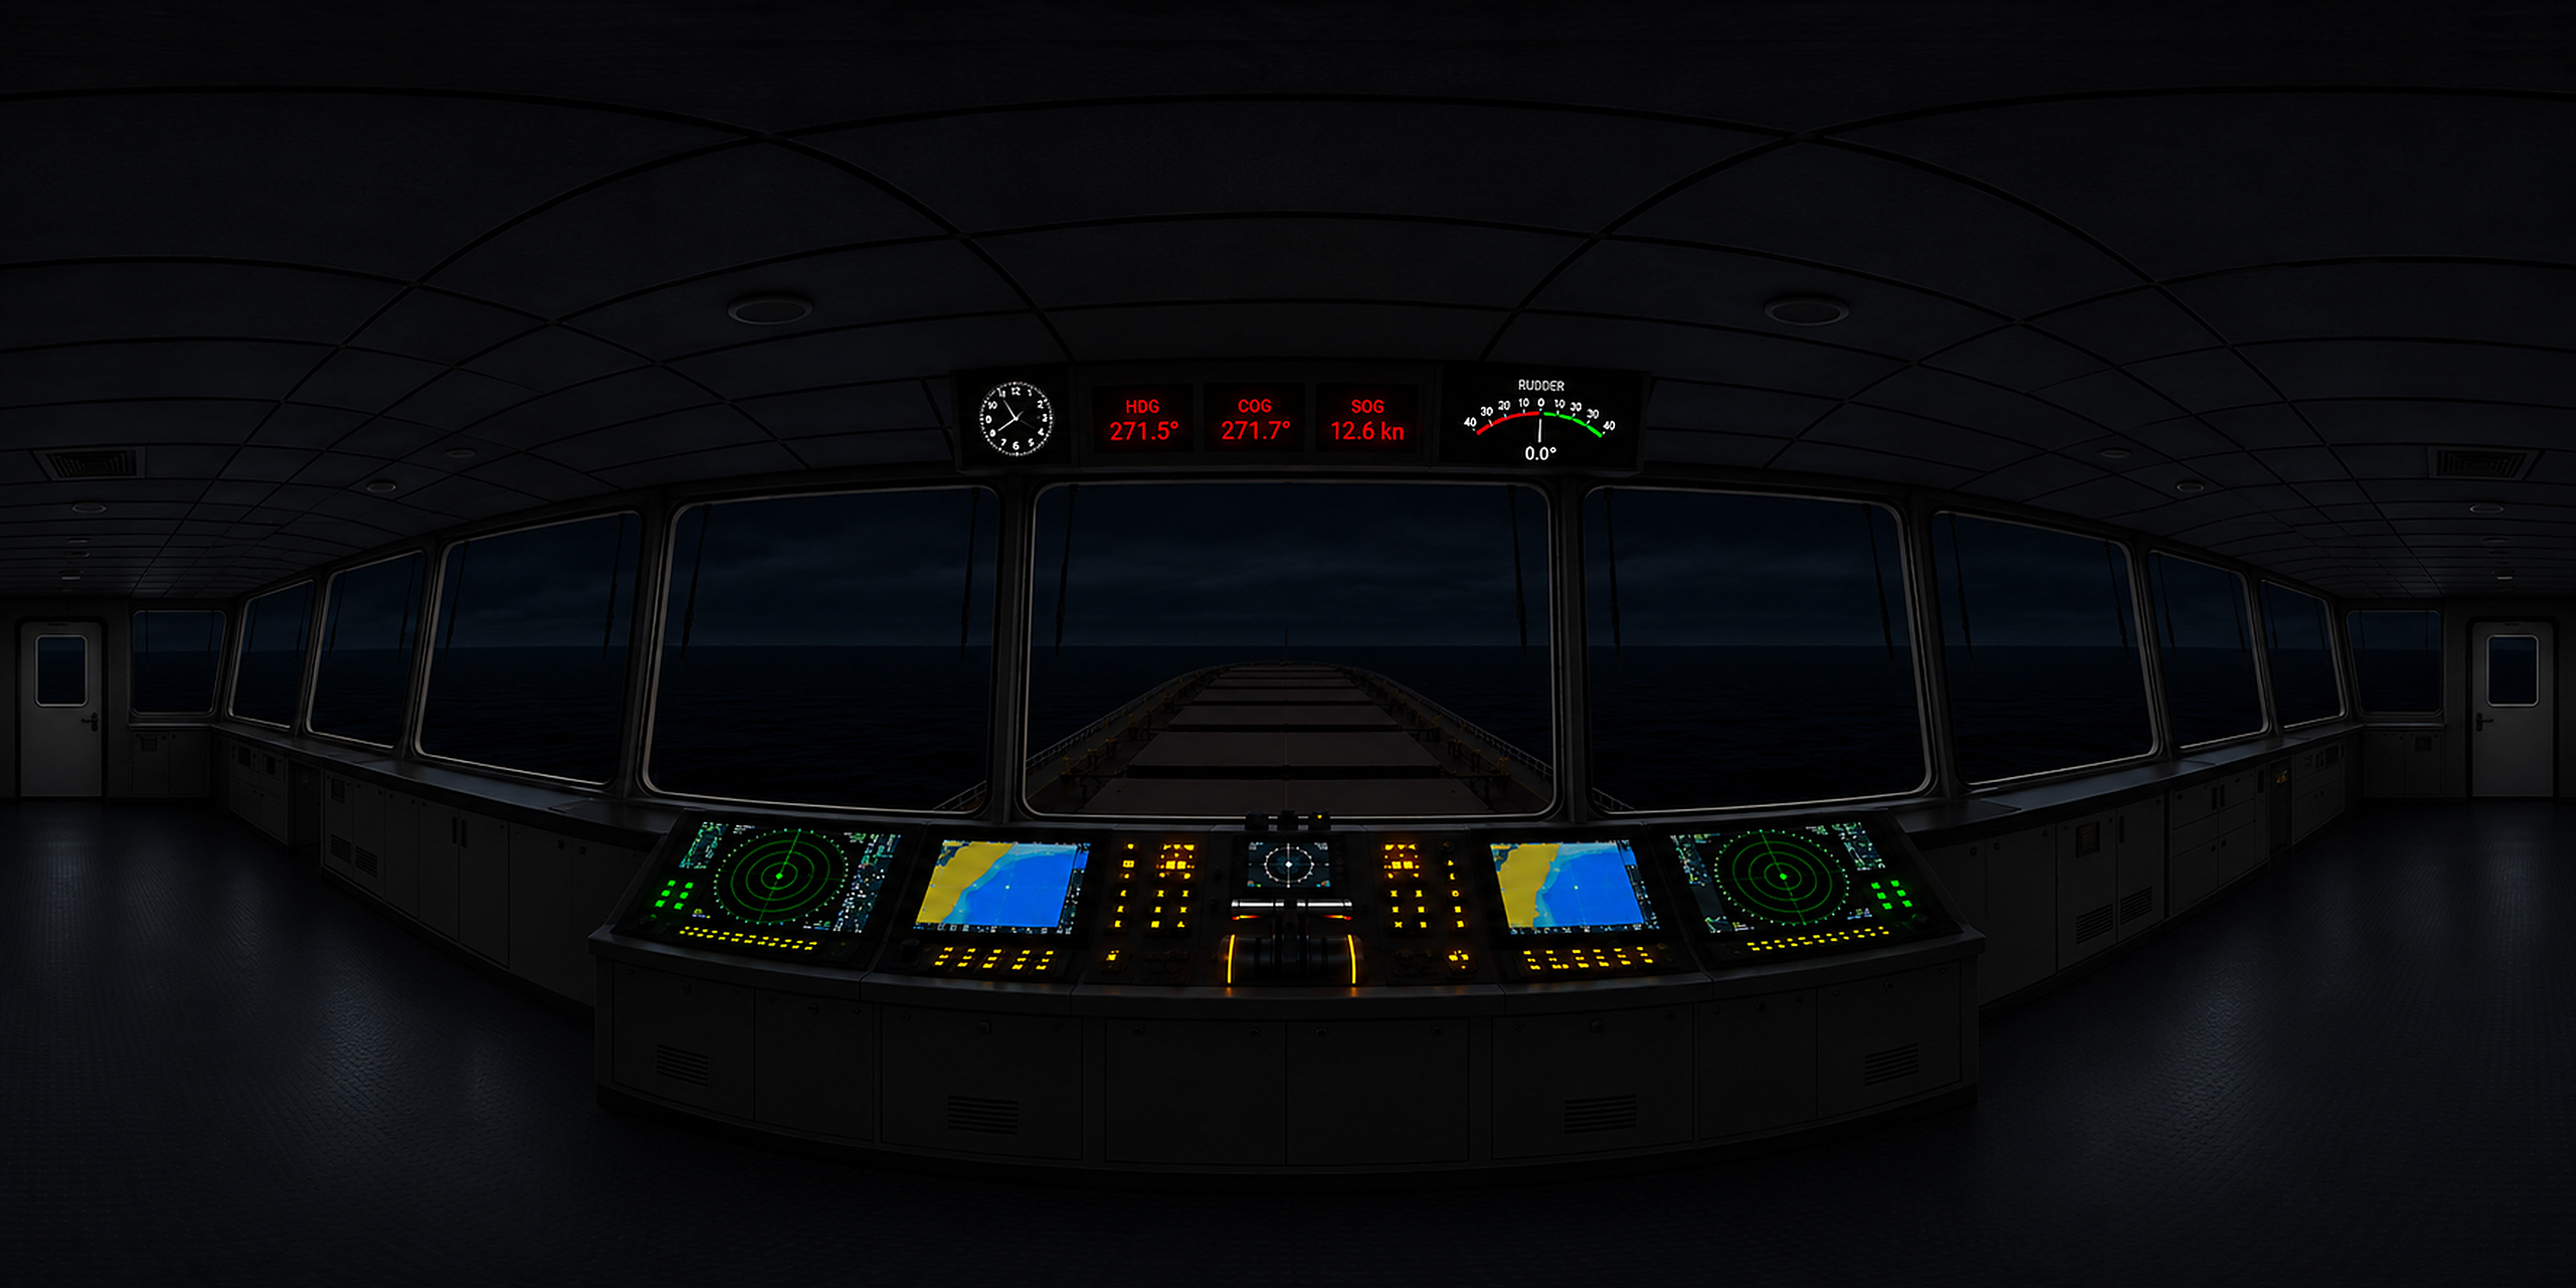
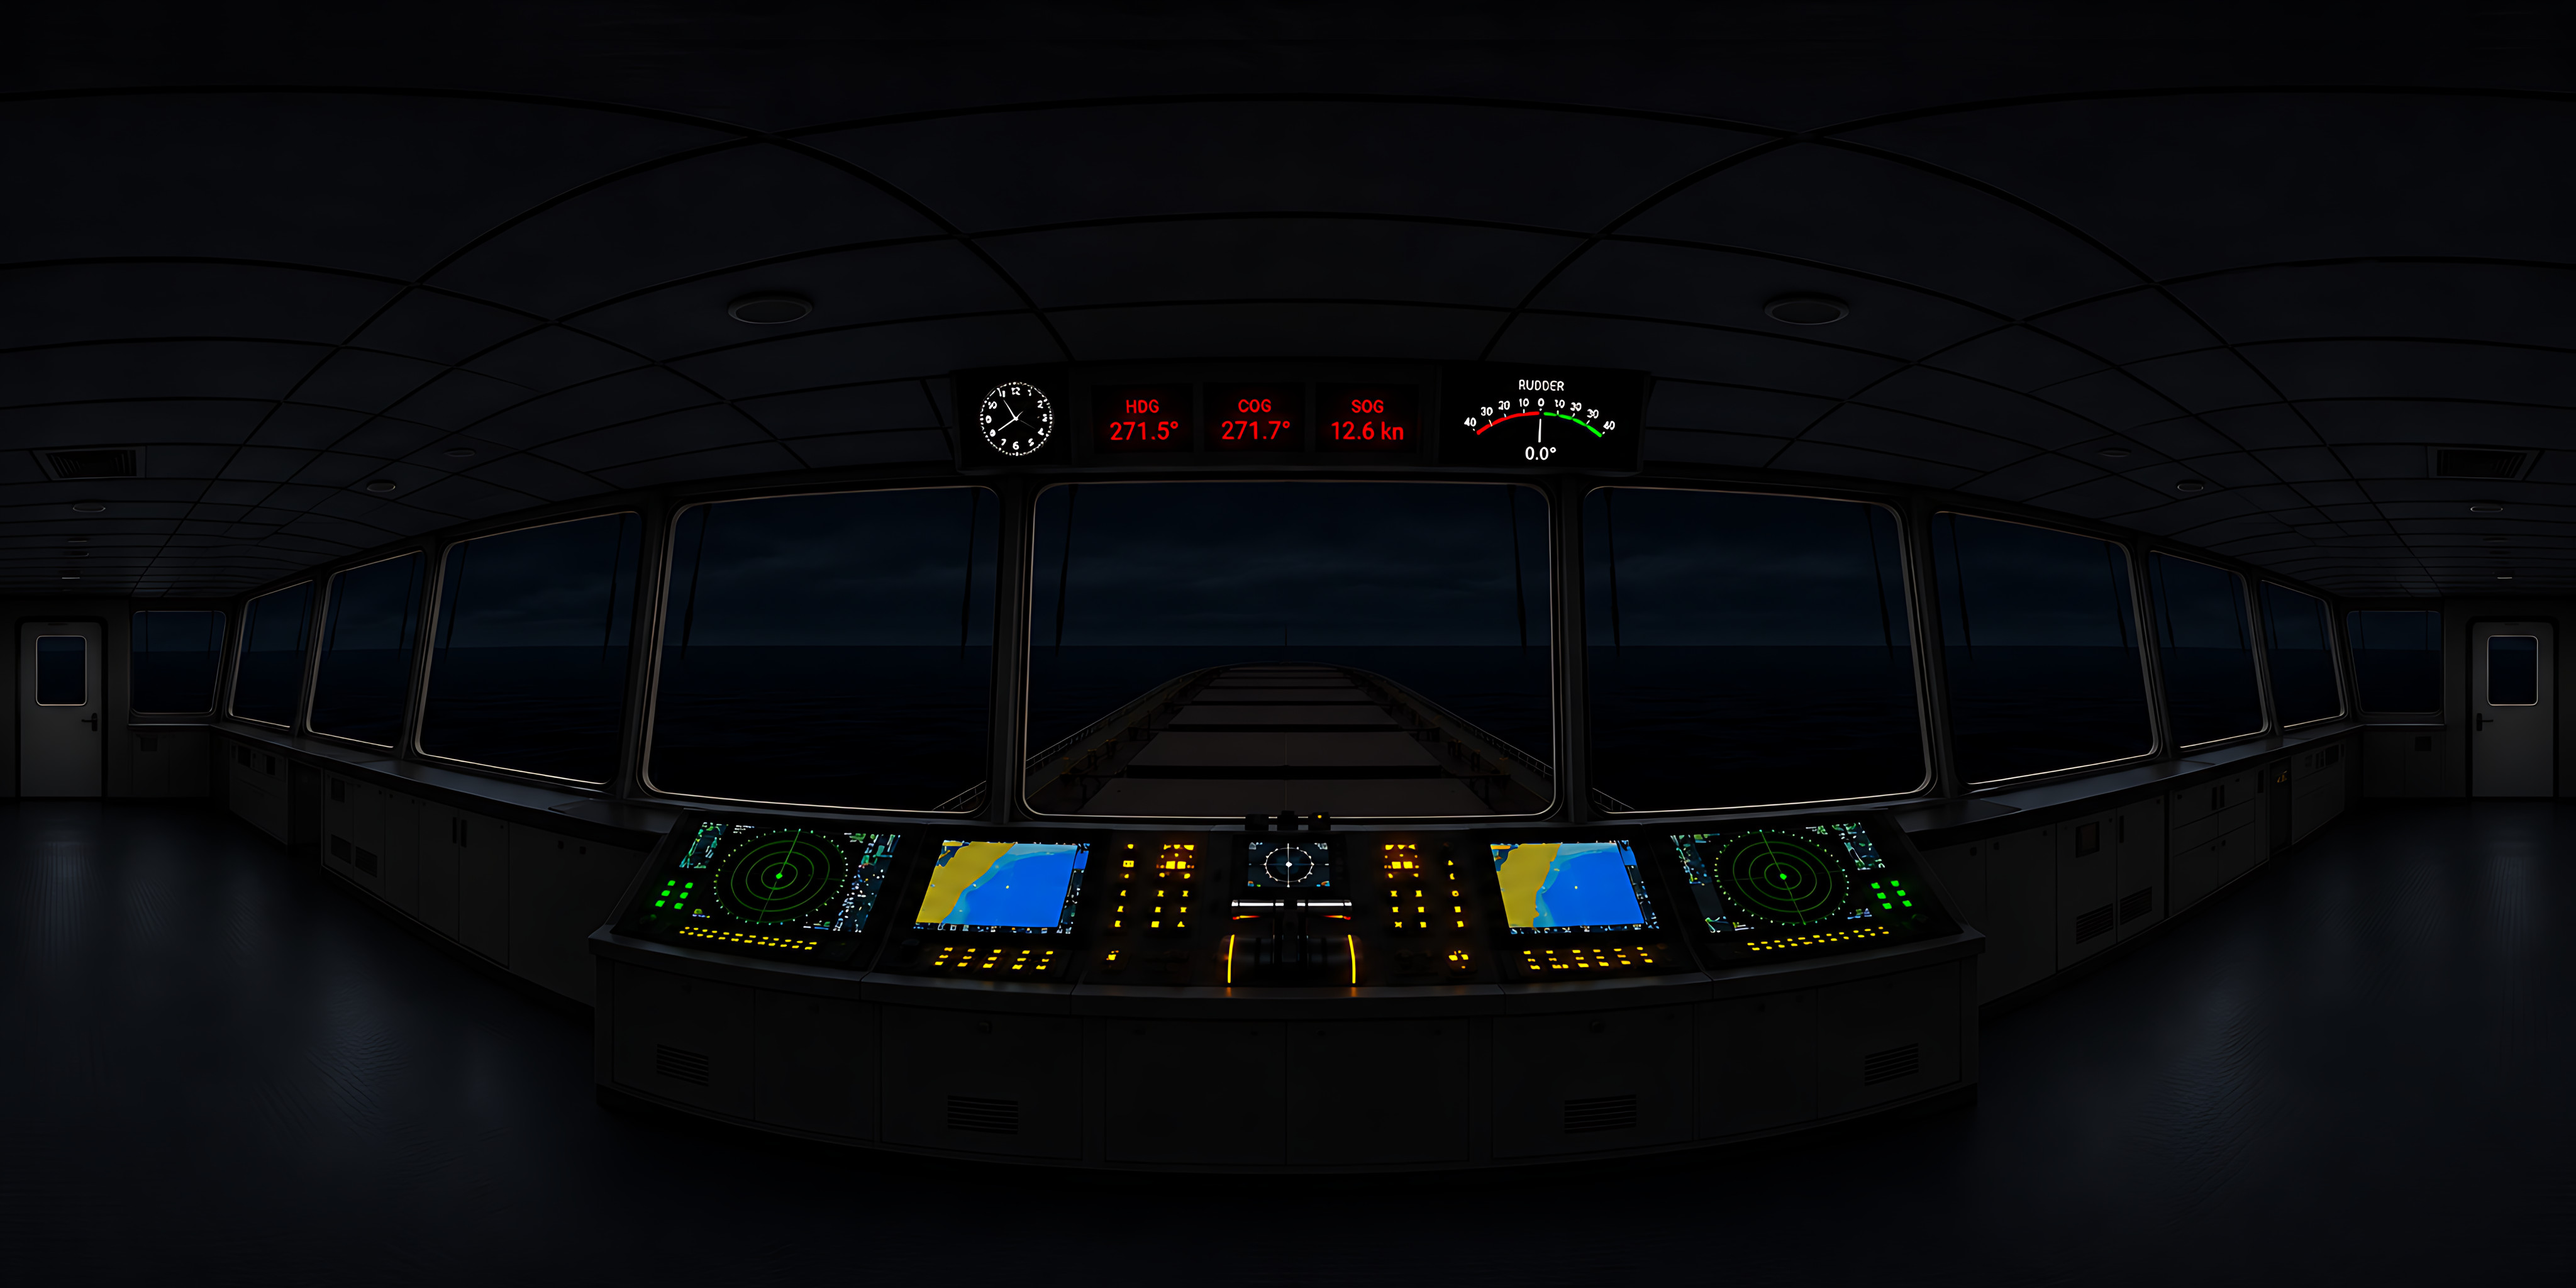
Bridge at Night 360: sharpened 360 picture (4x), larger zoom range, window-glass map for future lights
Claude-Session: https://claude.ai/code/session_01XLtBWFyJp3bPkUeTe5GoMz

diff --git a/bridge360.html b/bridge360.html
@@ -61,7 +61,7 @@ async function allowed() {
 const OWN = { heading: 271.5, cog: 271.7, sog: 12.6, rudder: 0 };
 const EYE = 1.70;                 // eye height above the wheelhouse deck, m
 const BR = { hw: 4.55, zf: -3.2, za: 3.8, h: 2.7 };
-const PHOTO = { src: 'media/bridge360/bridge-pano.jpg', horizonUp: 0 };   // the approved 360° picture of the wheelhouse: one image, dead ahead at its centre, horizon moved onto the level of the eye
+const PHOTO = { src: 'media/bridge360/bridge-pano.jpg', src8k: 'media/bridge360/bridge-pano-8k.jpg', glass: 'media/bridge360/bridge-pano-glass.png' };   // the approved 360° picture (sharpened), and a map of its window glass round the horizon
 const SEA_Y = -20.0, DECK_Y = -13.0;               // sea level and main deck, relative to the wheelhouse deck
 const NM = 1852;
 
@@ -81,7 +81,8 @@ function build() {
 
   /* ----- the whole surroundings are the approved 360° picture, on the inside of a sphere centred on the eye.
            The eye only turns, so every direction shows the picture without distortion. ----- */
-  { const pt = new THREE.TextureLoader().load(PHOTO.src, () => { api.photoReady = true; }); pt.colorSpace = THREE.SRGBColorSpace; pt.anisotropy = renderer.capabilities.getMaxAnisotropy(); pt.generateMipmaps = true;
+  { const big = renderer.capabilities.maxTextureSize >= 8192 && Math.max(screen.width, screen.height) >= 1100 && (navigator.deviceMemory || 8) >= 4;   // large picture on computers, smaller one on phones
+    const pt = new THREE.TextureLoader().load(big ? PHOTO.src8k : PHOTO.src, () => { api.photoReady = true; api.pano = big ? '8k' : '4k'; }); pt.colorSpace = THREE.SRGBColorSpace; pt.anisotropy = renderer.capabilities.getMaxAnisotropy(); pt.generateMipmaps = true;
     const sph = new THREE.Mesh(new THREE.SphereGeometry(400, 96, 48), new THREE.MeshBasicMaterial({ map: pt, side: THREE.BackSide, toneMapped: false, depthWrite: false, depthTest: false }));
     sph.scale.x = -1; sph.rotation.y = -Math.PI / 2; sph.position.copy(camera.position); sph.renderOrder = -10; scene.add(sph); }
   /* ----- relative bearing scale (optional), 000 to 359, drawn at the level of the eye ----- */
@@ -103,10 +104,13 @@ function build() {
   };
   const COL = { w: 0xfff2cf, r: 0xff2a1c, g: 0x1fe06a, y: 0xffc830 };
   const dotT = tex(64, 64, (g, w, h) => { const gr = g.createRadialGradient(32, 32, 0, 32, 32, 32); gr.addColorStop(0, 'rgba(255,255,255,1)'); gr.addColorStop(.18, 'rgba(255,255,255,.9)'); gr.addColorStop(.5, 'rgba(255,255,255,.16)'); gr.addColorStop(1, 'rgba(255,255,255,0)'); g.clearRect(0, 0, w, h); g.fillStyle = gr; g.fillRect(0, 0, w, h); });
+  const glass = { w: 0, h: 0, d: null };
+  { const im = new Image(); im.onload = () => { const c = document.createElement('canvas'); c.width = im.width; c.height = im.height; const g = c.getContext('2d', { willReadFrequently: true }); g.drawImage(im, 0, 0); glass.w = c.width; glass.h = c.height; glass.d = g.getImageData(0, 0, c.width, c.height).data; api.glassReady = true; }; im.src = PHOTO.glass; }
+  const throughGlass = (relDeg, elevDeg) => { if (!glass.d) return false; const u = (((relDeg + 180) % 360) + 360) % 360 / 360, v = .5 - elevDeg / 180; const x = Math.min(glass.w - 1, Math.floor(u * glass.w)), y = Math.max(0, Math.min(glass.h - 1, Math.floor(v * glass.h))); return glass.d[(y * glass.w + x) * 4] > 127; };
   const vessels = [];
   function addVessel(o) {   // { relBearing, rangeNm, heading (true), speedKn, type }
     const v = Object.assign({ relBearing: 0, rangeNm: 4, heading: 90, speedKn: 0, type: 'pdv50' }, o); const b = v.relBearing * Math.PI / 180, r = v.rangeNm * NM;
-    v.x = Math.sin(b) * r; v.z = -Math.cos(b) * r; v.sprites = (LIGHTS[v.type] || LIGHTS.pdv50).map(l => { const s = new THREE.Sprite(new THREE.SpriteMaterial({ map: dotT, color: COL[l[2]], transparent: true, depthWrite: false, toneMapped: false, blending: THREE.AdditiveBlending })); s.userData = l; scene.add(s); return s; });
+    v.x = Math.sin(b) * r; v.z = -Math.cos(b) * r; v.sprites = (LIGHTS[v.type] || LIGHTS.pdv50).map(l => { const s = new THREE.Sprite(new THREE.SpriteMaterial({ map: dotT, color: COL[l[2]], transparent: true, depthWrite: false, toneMapped: false, blending: THREE.AdditiveBlending })); s.userData = { l }; scene.add(s); return s; });
     vessels.push(v); return v;
   }
   function clearVessels() { vessels.forEach(v => v.sprites.forEach(s => { scene.remove(s); s.material.dispose(); })); vessels.length = 0; }
@@ -115,13 +119,13 @@ function build() {
       const rel = (v.heading - OWN.heading) * Math.PI / 180, own = OWN.sog * NM / 3600 * api.timeScale, sp = v.speedKn * NM / 3600 * api.timeScale;
       v.x += Math.sin(rel) * sp * dt; v.z += -Math.cos(rel) * sp * dt + own * dt;                     // motion relative to own ship, which steams along -Z
       const fx = Math.sin(rel), fz = -Math.cos(rel);
-      for (const s of v.sprites) { const [lx, ly, , sec] = s.userData, px = v.x + fx * lx, pz = v.z + fz * lx, d = Math.hypot(px, pz - camera.position.z);
-        const toObs = Math.atan2(-px, -(pz - camera.position.z) * -1), asp = (((Math.atan2(-px, pz - camera.position.z) - Math.atan2(fx, -fz)) * 180 / Math.PI + 540) % 360) - 180;   // bearing of the observer from her bow, + = her starboard side
+      for (const s of v.sprites) { const [lx, ly, , sec] = s.userData.l, px = v.x + fx * lx, pz = v.z + fz * lx, d = Math.hypot(px, pz - camera.position.z);
+        const asp = (((Math.atan2(-px, pz - camera.position.z) - Math.atan2(fx, -fz)) * 180 / Math.PI + 540) % 360) - 180;   // bearing of the observer from her bow, + = her starboard side
         const show = sec === 'all' || (sec === 'mast' && Math.abs(asp) <= 112.5) || (sec === 'stbd' && asp >= 0 && asp <= 112.5) || (sec === 'port' && asp <= 0 && asp >= -112.5) || (sec === 'stern' && Math.abs(asp) >= 112.5);
         const drop = d * d / (2 * 7.43e6);                                                             // curvature of the earth with standard refraction
-        s.visible = show && (SEA_Y + ly - drop) > SEA_Y - 0.0 - Math.max(0, (d - 18000)) * 0.0;        // the light itself; dipping below the horizon is handled by the height
+        const yL = SEA_Y + ly - drop, relL = Math.atan2(px, -(pz - camera.position.z)) * 180 / Math.PI, elL = Math.atan2(yL - camera.position.y, d) * 180 / Math.PI;
+        s.userData.glass = throughGlass(relL, elL); s.visible = show && s.userData.glass;            // in her sector, and seen through window glass
         s.position.set(px, SEA_Y + ly - drop, pz); const k = d * 0.0042 * (sec === 'mast' ? 1.15 : 1); s.scale.set(k, k, 1);
-        if (SEA_Y + ly - drop < SEA_Y - (d * d / (2 * 7.43e6)) * 0) { /* reserved: range of visibility by Rule 22 */ }
       }
     }
   }
@@ -135,14 +139,14 @@ function build() {
   el.addEventListener('pointermove', e => { if (!drag) return; const k = (fov * Math.PI / 180) / host.clientHeight, dx = e.clientX - drag.x, dy = e.clientY - drag.y, now = performance.now();
     yaw += dx * k; pitch = Math.max(-.6, Math.min(.75, pitch + dy * k)); vyaw = dx * k / Math.max(1, now - drag.t) * 1000; drag = { x: e.clientX, y: e.clientY, t: now }; });
   const end = () => { drag = null; host.classList.remove('drag'); }; el.addEventListener('pointerup', end); el.addEventListener('pointercancel', end);
-  el.addEventListener('wheel', e => { e.preventDefault(); fovT = Math.max(28, Math.min(95, fovT + Math.sign(e.deltaY) * 4)); }, { passive: false });
+  el.addEventListener('wheel', e => { e.preventDefault(); fovT = Math.max(16, Math.min(95, fovT + Math.sign(e.deltaY) * 4)); }, { passive: false });
   el.addEventListener('dblclick', () => { pitchT = PITCH0; fovT = FOV0; });
   window.addEventListener('keydown', e => { if (e.target.tagName === 'INPUT') return; const st = (e.shiftKey ? 10 : 1) * Math.PI / 180; if (e.key === 'ArrowRight') { yaw -= st; e.preventDefault(); } if (e.key === 'ArrowLeft') { yaw += st; e.preventDefault(); } });
   const lookAt = d => { yaw = -(((+d % 360) + 360) % 360) * Math.PI / 180; vyaw = 0; yawT = null; };
   $('goto').addEventListener('change', e => { const d = parseInt(e.target.value, 10); if (!isNaN(d)) lookAt(d); e.target.blur(); });
   const setInd = on => { ring.visible = !!on; $('bInd').classList.toggle('on', ring.visible); };
   $('bInd').onclick = () => setInd(!ring.visible);
-  const zoom = d => { fovT = Math.max(28, Math.min(95, fovT + d)); };
+  const zoom = d => { fovT = Math.max(16, Math.min(95, fovT + d)); };
   $('bZin').onclick = () => zoom(-10); $('bZout').onclick = () => zoom(10);
   let yawT = null; $('bReset').onclick = () => { const cur = ((yaw % (2 * Math.PI)) + 3 * Math.PI) % (2 * Math.PI) - Math.PI; yaw = cur; yawT = 0; vyaw = 0; fovT = FOV0; pitchT = PITCH0; };
   $('bFull').onclick = () => { if (document.fullscreenElement) document.exitFullscreen(); else document.documentElement.requestFullscreen && document.documentElement.requestFullscreen(); };
@@ -161,7 +165,7 @@ function build() {
   }
   $('bShot').onclick = () => { const s = shot(); s.canvas.toBlob(bl => { const a = document.createElement('a'); a.href = URL.createObjectURL(bl); a.download = s.name; document.body.appendChild(a); a.click(); a.remove(); setTimeout(() => URL.revokeObjectURL(a.href), 4000); }, 'image/png'); };
 
-  const api = { THREE, scene, camera, renderer, own: OWN, timeScale: 1, lookAt, relBearing: rel, setIndicators: setInd, screenshot: shot, addVessel, clearVessels, vessels, lightSets: LIGHTS, frames: 0 };
+  const api = { THREE, scene, camera, renderer, own: OWN, timeScale: 1, lookAt, relBearing: rel, setIndicators: setInd, screenshot: shot, addVessel, clearVessels, vessels, throughGlass, lightSets: LIGHTS, frames: 0 };
   window.BRIDGE360 = api;
 
   let last = performance.now(), tick = 0, shownB = -1;
